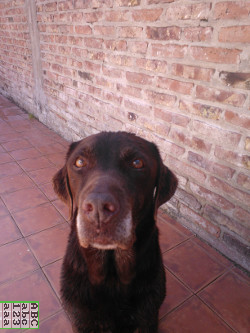
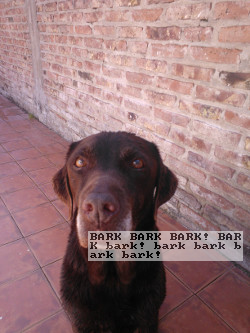
vertical text rotated; fixed bounding box

Changed region(s): [[0.336, 0.6907, 0.98, 0.7808], [0.0, 0.9009, 0.168, 0.991]]

diff --git a/font8x8render.py b/font8x8render.py
@@ -8,9 +8,6 @@
 #        which is inverted with respect arrays.
 #        this is a mess. don't judge me. :p
 #
-# Issues: bounding box only works well if text fits on one line.
-#         maybe vert dir should rotate text
-#
 
 import font8x8
 
@@ -53,17 +50,18 @@ def annotate_img(img, text, x=8, y=8, dir="horiz",
 
   kern=8
 
-  print(x,y)
+  vert=(dir=="vert")
+
   if x<0:
     x=img.shape[1]+x
   if y<0:
     y=img.shape[0]+y
-  print(x,y)
-
+  
 
   # warn, see note above
   xmin,xmax=y,y
   ymin,ymax=x,x
+  maxline=1
 
   if box=="white":
     bgcol=[255,255,255]
@@ -74,16 +72,18 @@ def annotate_img(img, text, x=8, y=8, dir="horiz",
 
   dx=0
   dy=0
-  for i in range(0, len(text)):
+  currline=1
+  i=0
+  while i<len(text):
 
     c=text[i:i+1]
     bitmap = select_set(ord(c))
 
     # Draw a character
-    for py in range(0, 9):
-      for px in range(0, 8):
+    for py in range(0, 8 if vert else 9 ):
+      for px in range(0, 9 if vert else 8):
         if py>=0 and py<8 and px>=0 and px<8:
-          if dir=="vert":
+          if vert:
             pixel = bitmap[7-px] & 1 << py
           else:
             pixel = bitmap[py] & 1 << px
@@ -106,16 +106,31 @@ def annotate_img(img, text, x=8, y=8, dir="horiz",
             elif box != "none":
               putpix(img, xpos, ypos, bgcol, alpha)
 
-    if dir=="vert":
+    if vert:
       dy+=kern*zoom
       if y+dy+kern*zoom>=img.shape[0]:
         dx-=(kern+1)*zoom
         dy=0
+        maxline=currline
+        currline=1
+      else:
+        currline+=1
     else:
       dx+=kern*zoom
       if x+dx+kern*zoom>=img.shape[1]:
         dy+=(kern+1)*zoom
         dx=0
+        maxline=currline
+        currline=1
+      else:
+        currline+=1
+
+    # aesthetic: match longest line length
+    while (len(text) % maxline) != 0:
+      text=text+" "
+
+    i+=1
+
   
   # complete borders around bounding box  
   if box!="none":
@@ -127,7 +142,7 @@ def annotate_img(img, text, x=8, y=8, dir="horiz",
       for j in range(t, b):
         if (i<l+2*zoom or i>r-2*zoom) or \
            (j<t+2*zoom or j>b-2*zoom):
-          putpix(img, i, j, [0,255,0], alpha) #bgcol, alpha)
+          putpix(img, i, j, bgcol, alpha)
 
 
   return

diff --git a/demo_img.py b/demo_img.py
@@ -15,9 +15,9 @@ import font8x8render
 plt.ion()
 img = plt.imread('demo_orig.jpg')
 
-text="ABCabc123aaaaaaaaaaaaaaaabbbbbbbbbbbbbbccc"
-font8x8render.annotate_img(img, text, x=30, y=-30, color=[0,0,0], alpha=0.5,
-                             box="white", dir="vert")
+text="BARK BARK BARK! BARK bark! bark bark bark bark!"
+font8x8render.annotate_img(img, text, x=90, y=-100, color=[0,0,0], alpha=0.5,
+                             box="white", zoom=1)#, dir="vert")
 
 plt.imshow(img)
 plt.show()
